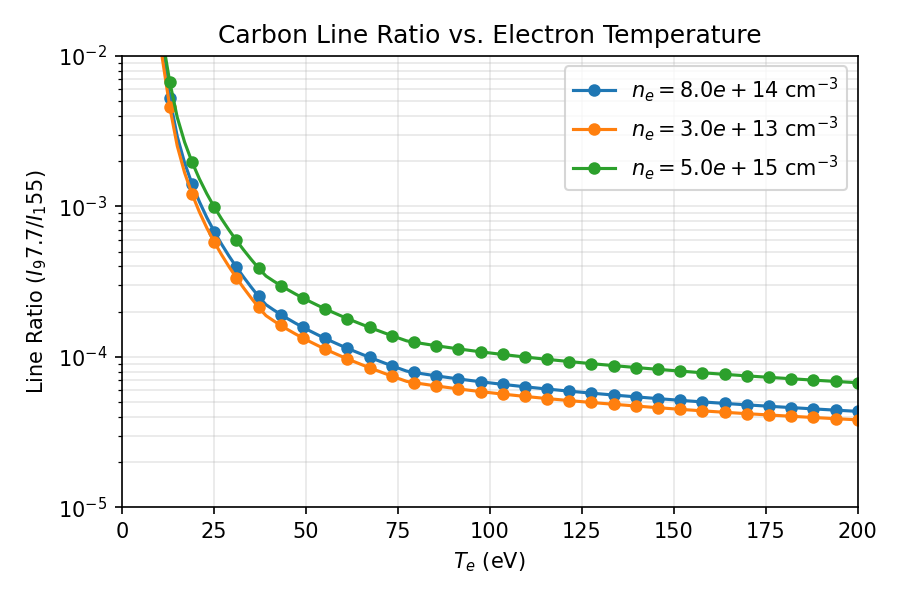
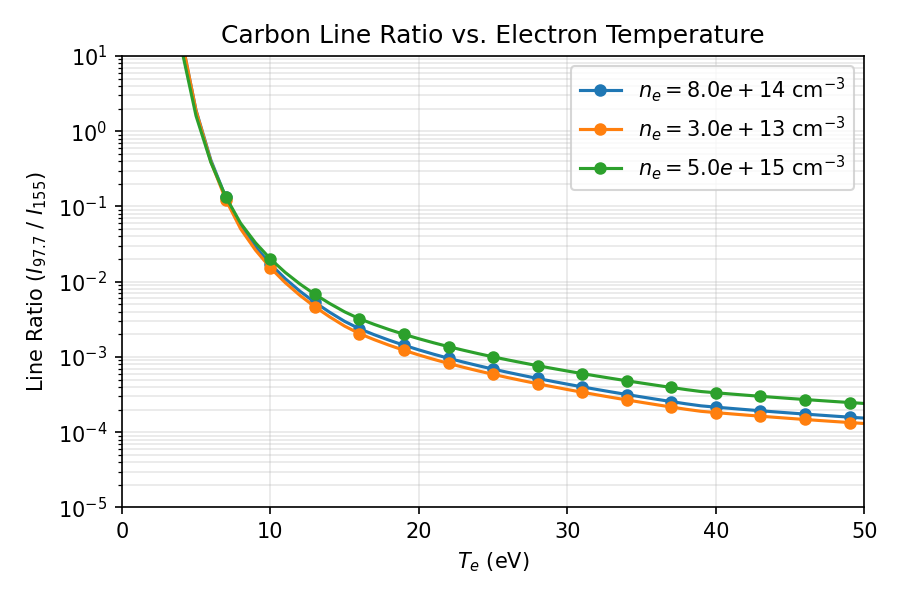
Created new FIG 2 file.

diff --git a/scripts/fig2_v1.0.py b/scripts/fig2_v1.0.py
@@ -1,0 +1,308 @@
+"""
+**STILL IN DEVELOPMENT**
+
+Chaplin Figure 2 Recreation
+
+This script is intended to compute a synthetic carbon spectrum using ColRadPy.
+
+For each carbon ion:
+    1. Build a ColRadPy collisional-radiative model.
+    2. Extract transition wavelengths and photon emissivity coefficients (PECs).
+    3. Weight the PECs by the corresponding ion fraction.
+    4. Represent each transition with a Gaussian line profile.
+    5. Sum all transitions onto a common wavelength grid.
+
+The initial goal is to reproduce the modeled spectra shown in Figure 2
+of Chaplin for the T=20eV and T=40eV plots.
+
+Author: Ryan Rauenzahn
+Date: July 10, 2026
+"""
+
+from pathlib import Path
+import numpy as np
+import matplotlib.pyplot as plt
+from colradpy import colradpy
+from colradpy.ionization_balance_class import ionization_balance
+
+# ============================================================
+# Paths
+# ============================================================
+
+SCRIPT_DIR = Path(__file__).resolve().parent
+PROJECT_ROOT = SCRIPT_DIR.parent
+ATOMIC_DATA_DIR = PROJECT_ROOT / "atomic_data"
+
+# ============================================================
+# Plasma conditions
+# ============================================================
+
+TEMPERATURE = 40.0          # eV
+DENSITY = 5.0e14            # cm^-3
+
+WAVELENGTH_MIN = 50.0       # nm
+WAVELENGTH_MAX = 300.0      # nm
+
+# Artificial Gaussian width used only to make discrete lines visible.
+# This is not yet intended to reproduce the actual instrumental width.
+SIGMA_NM = 0.20
+
+
+# ============================================================
+# Carbon ADF04 files
+# ============================================================
+
+FILES = [
+    str(ATOMIC_DATA_DIR / "mom97_ls#c0.dat"),   # C I
+    str(ATOMIC_DATA_DIR / "mom97_ls#c1.dat"),   # C II
+    str(ATOMIC_DATA_DIR / "mom97_ls#c2.dat"),   # C III
+    str(ATOMIC_DATA_DIR / "mom97_ls#c3.dat"),   # C IV
+    str(ATOMIC_DATA_DIR / "mom97_ls#c4.dat"),   # C V
+    str(ATOMIC_DATA_DIR / "mom97_ls#c5.dat"),   # C VI
+]
+
+ION_LABELS = [
+    "C I",
+    "C II",
+    "C III",
+    "C IV",
+    "C V",
+    "C VI",
+]
+
+
+# ============================================================
+# Helper function: Gaussian line profile
+# ============================================================
+
+def gaussian(wavelength_grid, line_center, sigma):
+    """
+    Return a unit-peak Gaussian centered at line_center.
+    """
+
+    return np.exp(
+        -0.5 * ((wavelength_grid - line_center) / sigma) ** 2
+    )
+
+
+# ============================================================
+# Compute carbon ionization balance
+# ============================================================
+
+temperature_grid = np.array([TEMPERATURE])
+density_grid = np.array([DENSITY])
+
+
+print("\n--- Building carbon ionization balance ---")
+
+ion_balance = ionization_balance(
+    FILES,
+    metas=[[0]] * len(FILES),
+    temp_grid=temperature_grid,
+    dens_grid=density_grid,
+    use_ionization=True,
+    use_recombination=True,
+    suppliment_with_ecip=True,
+)
+
+ion_balance.populate_ion_matrix()
+ion_balance.solve_no_source()
+
+
+# Inspect available keys first.
+print("\nIonization-balance processed keys:")
+print(ion_balance.data["processed"].keys())
+
+ion_fractions = np.squeeze(
+    ion_balance.data["processed"]["ionization_balance"]
+)
+
+
+print("\n--- Ion fractions ---")
+
+for label, fraction in zip(ION_LABELS, ion_fractions):
+    print(f"{label:5s}: {fraction:.6e}")
+
+
+# ============================================================
+# Create common wavelength grid
+# ============================================================
+
+wavelength_grid = np.linspace(
+    WAVELENGTH_MIN,
+    WAVELENGTH_MAX,
+    15000,
+)
+
+total_spectrum = np.zeros_like(wavelength_grid)
+
+
+# ============================================================
+# Run each ion separately and build its spectrum
+# ============================================================
+
+ion_spectra = {}
+
+
+for file, ion_label, ion_fraction in zip(
+    FILES,
+    ION_LABELS,
+    ion_fractions,
+):
+
+    print(f"\n--- Processing {ion_label} ---")
+
+    model = colradpy(
+        file,
+        metas=[0],
+        temp_grid=temperature_grid,
+        electron_den=density_grid,
+        use_ionization=True,
+        use_recombination=True,
+        suppliment_with_ecip=True,
+    )
+
+    model.solve_cr()
+
+    # Vacuum wavelengths are stored in Angstroms.
+    wavelengths_nm = (
+        np.asarray(model.data["processed"]["wave_vac"]) / 10.0
+    )
+
+    # PEC dimensions are typically:
+    #
+    #     transition x metastable x density x temperature
+    #
+    # For one metastable, one density, and one temperature:
+    pecs = np.asarray(
+        model.data["processed"]["pecs"]
+    )[:, 0, 0, 0]
+
+
+    # Keep only transitions inside the Figure 2 wavelength range.
+    mask = (
+        (wavelengths_nm >= WAVELENGTH_MIN)
+        & (wavelengths_nm <= WAVELENGTH_MAX)
+        & np.isfinite(wavelengths_nm)
+        & np.isfinite(pecs)
+        & (pecs > 0.0)
+    )
+
+    wavelengths_nm = wavelengths_nm[mask]
+    pecs = pecs[mask]
+
+
+    # Weight the PECs by the ion fraction.
+    line_strengths = ion_fraction * pecs
+
+
+    # Build this ion's spectrum.
+    spectrum = np.zeros_like(wavelength_grid)
+
+    for wavelength, strength in zip(
+        wavelengths_nm,
+        line_strengths,
+    ):
+
+        spectrum += strength * gaussian(
+            wavelength_grid,
+            wavelength,
+            SIGMA_NM,
+        )
+
+
+    ion_spectra[ion_label] = spectrum
+    total_spectrum += spectrum
+
+
+    # Print strongest transitions for diagnostics.
+    if len(line_strengths) > 0:
+
+        strongest = np.argsort(line_strengths)[::-1][:10]
+
+        print("Strongest modeled transitions:")
+
+        for index in strongest:
+
+            print(
+                f"    {wavelengths_nm[index]:8.3f} nm"
+                f"    PEC = {pecs[index]:.3e}"
+                f"    weighted = {line_strengths[index]:.3e}"
+            )
+
+
+# ============================================================
+# Normalize spectrum
+# ============================================================
+
+if np.max(total_spectrum) > 0.0:
+    total_spectrum_normalized = (
+        total_spectrum / np.max(total_spectrum)
+    )
+else:
+    total_spectrum_normalized = total_spectrum
+
+
+# ============================================================
+# Plot total model spectrum
+# ============================================================
+
+fig, ax = plt.subplots(figsize=(11, 6))
+
+ax.plot(
+    wavelength_grid,
+    total_spectrum_normalized,
+    linewidth=1.2,
+)
+
+ax.set_xlabel("Wavelength (nm)")
+ax.set_ylabel("Normalized intensity")
+ax.set_title(
+    rf"Synthetic Carbon Spectrum: "
+    rf"$T_e={TEMPERATURE:g}$ eV, "
+    rf"$n_e={DENSITY:.1e}$ cm$^{{-3}}$"
+)
+
+ax.set_xlim(WAVELENGTH_MIN, WAVELENGTH_MAX)
+ax.set_ylim(bottom=0.0)
+
+ax.grid(alpha=0.25)
+
+plt.tight_layout()
+plt.show()
+
+
+# ============================================================
+# Plot individual ion contributions
+# ============================================================
+
+fig, ax = plt.subplots(figsize=(11, 6))
+
+for ion_label, spectrum in ion_spectra.items():
+
+    if np.max(spectrum) > 0.0:
+
+        ax.plot(
+            wavelength_grid,
+            spectrum / np.max(total_spectrum),
+            label=ion_label,
+            linewidth=1.0,
+        )
+
+
+ax.set_xlabel("Wavelength (nm)")
+ax.set_ylabel("Intensity / maximum total intensity")
+ax.set_title(
+    rf"Carbon Ion Contributions: "
+    rf"$T_e={TEMPERATURE:g}$ eV, "
+    rf"$n_e={DENSITY:.1e}$ cm$^{{-3}}$"
+)
+
+ax.set_xlim(WAVELENGTH_MIN, WAVELENGTH_MAX)
+ax.set_ylim(bottom=0.0)
+
+ax.legend()
+ax.grid(alpha=0.25)
+
+plt.tight_layout()
+plt.show()

diff --git a/scripts/fig3_v2.2.py b/scripts/fig3_v2.2.py
@@ -50,7 +50,7 @@ FILES = [
 # Plasma conditions
 # ============================================================
 
-TE = np.linspace(1.0, 200.0, 100)
+TE = np.linspace(1.0, 50, 50)
 
 DENSITIES = [
     8.0e14,
@@ -406,11 +406,11 @@ def plot_line_ratio(results):
         )
 
     plt.xlabel(r"$T_e$ (eV)")
-    plt.ylabel(r"Line Ratio ($I_97.7$/$I_155$)")
+    plt.ylabel(r"Line Ratio ($I_{97.7}$ / $I_{155}$)")
     plt.title("Carbon Line Ratio vs. Electron Temperature")
 
-    plt.xlim(0, 200)
-    plt.ylim(1e-5, 1e-2)
+    plt.xlim(0, 50)
+    plt.ylim(1e-5, 1e1)
 
     plt.grid(True, which="both", alpha=0.3)
     plt.legend()